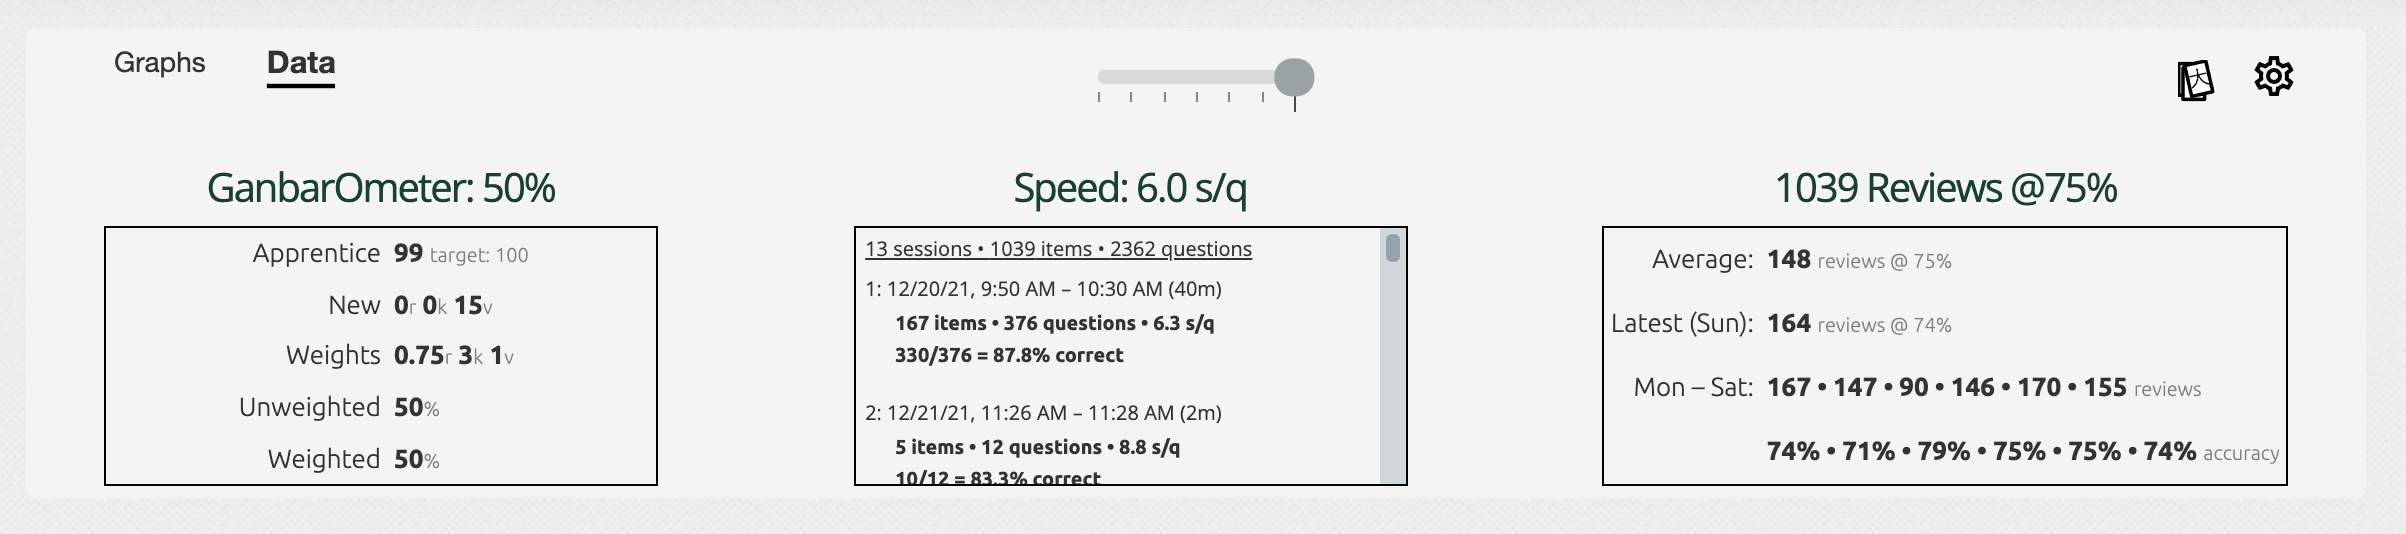
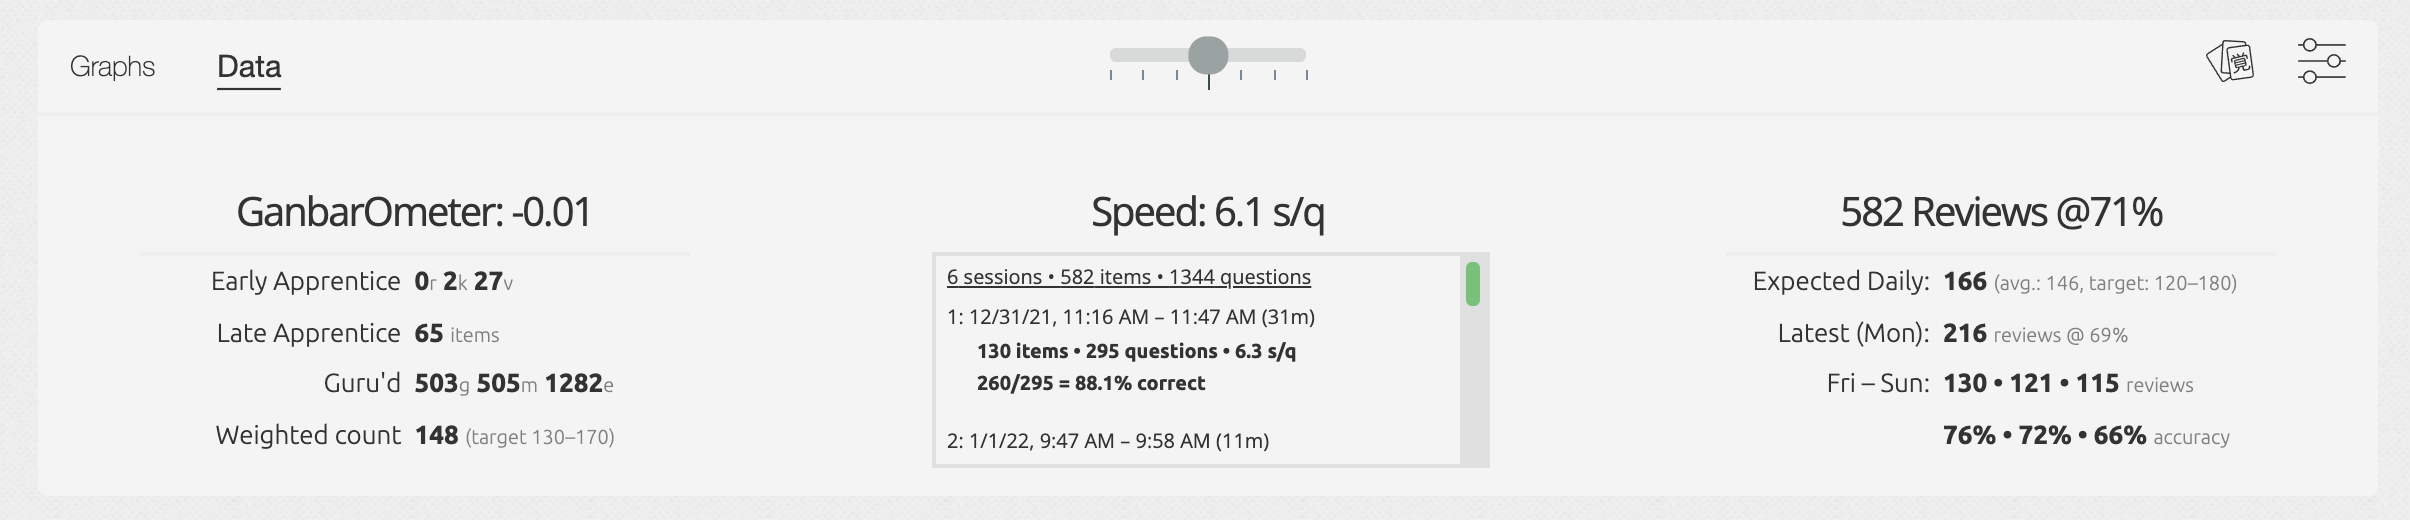
prepare for v4.0.0 release!

diff --git a/src/components/Gauge.svelte b/src/components/Gauge.svelte
@@ -84,7 +84,8 @@
 
   .needle {
     background-color: transparent;
-    border-top: 4px solid var(--fillColor);
+    border-top: 2px solid var(--fillColor);
+    z-index: 1;
   }
 
   .centerMark {

diff --git a/README.md b/README.md
@@ -1,20 +1,64 @@
-# The GanbarOmeter (svelte version)
+# The GanbarOmeter v4.0
+
+At long last, I'm happy to release this thing to the wild. It's ... grown. It
+dances, it sings, it names your offspring, it predicts the weather, it knows
+what you had for breakfast ...
+
+([I may have a
+problem](https://community.wanikani.com/t/script-abusers-anonymous/45681/82?u=rrwrex).
+Fear is the mind-killer ...)
+
+## What is it?
 
 This is a [tampermonkey](https://www.tampermonkey.net/) user script
-intended for people learning to read Japanese kanji characters with
-[Wanikani](https://www.wanikani.com/about).
+that (primarily) adds three graphical widgets to the
+[Wanikani](https://www.wanikani.com/about) dashboard. All three provide
+information to help manage your workload as you progress through the WaniKani
+levels.
 
-It adds three graphical widgets to the dashboard view (as well as a tabular view
-of the underlying values).)
+Quit reading this crazy diatribe and [go install it already](#installation).
 
-## User interface
+## User interface overview
 
 ![Graph view](./assets/graphs-view.png)
 
-This shows the three primary widgets, the navigation to display graphs or
-data-tables, a slider to change the number of days worth of reviews to retrieve,
-an icon to launch @rfindley's Self-Study quiz, and an icon to change the
-settings.
+There are three primary elements:
+
+- The [GanbarOmeter](#The-GanbarOmeter) itself. This gauge helps you decide whether to slow down or
+  speed up doing lessons. Basically, you want to keep the needle within the
+  light green region.
+
+- The Speed gauge. This gauge tells you how long you are taking on average to answer
+  reading and meaning questions. (Note that this depends on several heuristics
+  and statistical tricks. This information isn't measured, or at least not
+  presented by the [Wanikani API](https://docs.api.wanikani.com).)
+
+- The Reviews chart which displays a bar chart with how many reviews you
+  performed each day (and the percentage of those reviews you answered correctly
+  the first time).)
+
+If you click the "Data" navigation at the top, the graphs are replaced with a
+tabular view of the underlying data:
+
+![Data view](./assets/data-view.png)
+
+### Navigation
+
+The menu on top has several navigational elements:
+
+![Navigation elements](./assets/graphs-view-annotated.png)
+
+In addition to showing graphs or data, the nav bar includes:
+
+- A slider at the top to choose the number of days worth of reviews to retrieve.
+
+- An icon to pull up the preference setting dialog.
+
+- (Optional) A launcher for @rfindley's [Self-Study Quiz](https://community.wanikani.com/t/userscript-self-study-quiz/13191) with just the "new"
+  items in your assignment queue. "New" items are in stages 1 and 2 ("Apprentice
+  1" and "Apprentice 2'). This icon only appears if you have the Self-Study Quiz
+  installed. By default it will only quiz you on new Kanji, but you can choose
+  whether to include radicals or vocabulary in the settings.
 
 ### The GanbarOmeter
 
@@ -24,56 +68,47 @@ lessons depending on the counts, types, and SRS stages of upcoming assignments.
 
 The GanbarOmeter display a zero-center needle with three ranges. A numeric value
 is calculated based on upcoming assignments. That value is compared to lower and upper
-limits specified by the user. Values between the limits (in the gray range)
+limits specified by the user. Values between the limits (in the green range)
 display a “good” label. Below the lower limit (the yellowish range) displays a “more effort needed”
 label. Above the upper limit (the reddish range) displays a “take a break” label.
-
-Here are the settings for the GanbarOmeter (showing the default values):
-
-![GanbarOmeter Settings](./assets/ganbarometer-settings.png)
 
 ### The Speed Gauge
 
 The speed gauge show how long on average it takes you to answer an individual
-reading or meaning question. There is a setting for the target speed, a value at
-the target will display the green dial at the 50% location. Faster (lower
+reading or meaning question. There is a setting for the target speed, a computed
+value exactly equal to the target will display the green dial at the 50% location. Faster (lower
 seconds/question) will display in the lower part of the gauge, and slower in the
-higher range.
+higher range. Values above or below the limits specified in the target will
+change the label and display in a warning color.
 
 Note that this displays how much time is spent on each _question_ (reading or
-meaning, including repeat questions for prior incorrect answers).
+meaning, including repeat questions for prior incorrect answers). This is
+quite different than the delay between individual review records (which is what the
+API returns).
 
 ### The Reviews Chart
 
 Finally, the review chart shows a great deal of information:
 
 - The number of reviews performed each day.
-- The percentage of items answered correctly the first time (both meaning and
+- The percentage of _items_ answered correctly the first time (both meaning and
   reading).
 - The target range (the light green box in the background).
 - The expected daily number of reviews based on the makeup of the assignment
   queue (the horizontal dashed golden line).
 
-If you hover your mouse over an accuracy bar, it displays the number of review
+If you hover your mouse over an individual reviews bar, it displays the number of review
 items on that day as well as how many were answered correctly the first time
 (both reading and meaning).
 
-![Hovering over and accuracy bar](./assets/accuracy-hover.png)
-
-### The day range slider
-
-![Range slider](./assets/range-slider.png)
-
-You can retrieve between one and seven days of reviews.
+![Hovering over and accuracy bar](./assets/review-hover.png)
 
 ### Data view
-
-![Data view](./assets/data-view.png)
 
 The data view shows information in tabular form.
 
 Note that the speed gauge displays the number of _sessions_ (consecutive strings
-of reviews). It performs a statistical algorithm called the [median absolute
+of reviews). It uses a statistical algorithm called the [median absolute
 deviation](https://en.wikipedia.org/wiki/Median_absolute_deviation) on the
 intervals between review records to find sessions.
 
@@ -82,28 +117,187 @@ reading or writing questions answered correctly) while the review accuracy table
 displays _item_ accuracy (the percentage of review items where _both_ the
 reading and meaning were answered correctly the first time).
 
-## Beta version installation
+### The day range slider
 
-(The following presumes you already have Tampermonkey and the Wanikani Open
-Framework installed.)
+![Range slider](./assets/range-slider.png)
 
-1. Navigate to your Wanikani dashboard, click on the tampermonkey settings, and
-   disable the current ganbarometer script if you already have an older version
-   installed (there is no point in running both).
+You can retrieve between one and seven days of reviews.
 
-2. Open the tampermonkey dashboard, click the "Utilities" tab. At the very bottom you will see "Install from URL". Cut and paste this URL into the box, and click "Install": https://raw.githubusercontent.com/wrex/ganbarometer-svelte/main/published/beta0/bundle.js
+### Self-study
 
-3. Click "Install" on the next page. Then navigate back to your dashboard and
-   refresh the page. You should see the new version shown in the screenshots in
-   the previous post.
+If @rfindley's [Self-Study Quiz](https://community.wanikani.com/t/userscript-self-study-quiz/13191) is installed, a hand-drawn icon should be
+visible to launch it. (I tried to make it look like flash-cards). The idea is to
+let you do "out-of-band" reviews of newly introduced items as often as possible
+before doing your "proper" reviews within the SRS system.
 
-4. If you had a previous beta installed, you may need to refresh your stored
-   settings: Open the Settings dialog by clicking on the icon. Then click the
-   "defaults" button, followed by the "save" button. You must currently close
-   the dialog explicitly by clicking the red X in the upper right corner after
-   saving (this will be fixed in the production version).
+Items in the first two stages have **very** short review-cycles. It doesn't hurt
+to review the newest items more frequently. Once you answer them correctly
+enough times in the real Wanikani SRS system, they'll move out of the earliest
+stages.
 
-## Notes
+I feel strongly that these "extra" reviews of items in the first two stages
+isn't "cheating". The whole idea of an SRS is to repeat the stuff that needs it
+as often as possible, and items in the first two stages absolutely **should** be
+reviewed as much as possible.
+
+Once they've left the earliest stages, it's best to let the SRS system figure
+out when you should next review an item.
+
+### Settings
+
+Clicking the right-most icon will bring up the settings dialog:
+
+![Settings dialog](./assets/settings-ganbarometer.png)
+
+There are separate sections for each of the different widgets. There are also
+sections for "advanced" settings you shouldn't have to touch, as well as
+appearance settings (including where on the dashboard you want to see the Ganbarometer,
+and your prefered colors).
+
+## Installation
+
+1. Install a script manager of some sort. [Tampermonkey](https://chrome.google.com/webstore/detail/tampermonkey/dhdgffkkebhmkfjojejmpbldmpobfkfo?hl=en) or [Violentmonkey](https://github.com/violentmonkey/violentmonkey)
+   should both work (I use Tampermonkey myself).
+
+2. Install the [Wanikani Open Framework](https://community.wanikani.com/t/installing-wanikani-open-framework/28549).
+
+3. Navigate to your [Wanikani dashboard](https://www.wanikani.com/dashboard).
+
+4. Click on the tampermonkey settings (there should be an icon in your menu
+   bar). If you happen to already have an older version of this script
+   installed, please delete it. Open the tampermonkey dashboard and click the
+   "Utilities" tab.
+
+5. At the very bottom you will see "Install from URL". Cut and
+   paste this URL into the box, and click "Install":
+   `https://raw.githubusercontent.com/wrex/ganbarometer-svelte/main/published/v4/bundle.js`
+
+6. Click "Install" on the next page to actually add the script. Then navigate back to your dashboard and
+   refresh the page. You should now see the Ganbarometer!
+
+## Why this script exists
+
+Developing this has been a lot of fun. I've learned a ton (I didn't know
+Javascript and barely knew HTML/CSS when I started).
+
+More importantly, though, I've found this script incredibly **useful** as I
+progress through the levels. Not to put too fine a point on it, I wrote this for
+_myself_.
+
+The Wanikani designers have done a truly amazing job. The site teaches you to read
+kanji in the most efficient **AND ALMOST EFFORTLESS** way possible. It's like magic.
+
+The only requirements are that you:
+
+1. **DO ALL YOUR AVAILABLE REVIEWS EVERY SINGLE DAY**, and
+
+2. _Do a sufficient number of **lessons** to maintain a "comfortable" pace while
+   still meeting requirement 1._
+
+In other words, you really **must** try to get your review queue down to zero at
+least once every single day. (Life happens, and it's not the end of the world if you miss
+a day or two here and there, but you'll pay for it in the end if you don't keep
+up with your reviews.) Doing your reviews every day (or nearly) is non-negotiable.
+
+_Lessons_ though, **feed** the review queue. The more lessons you do, the more
+reviews you'll spend time on. _Lessons_ are the accelerator pedal, reviews are
+miles under the wheels, and **there is no brake pedal!** Once you've completed a
+lesson, you've launched that item into your review queue for the foreseeable
+future — there's no pulling it back. Lessons you do today will have an impact
+on your review workload _months_ in the future!
+
+You've no choice regarding reviews, you've got to do them all. But it's
+completely up to you to figure out how many lessons to do each day. Lessons are
+the **only** thing under your control!
+
+Very smart people who've gone before me have figured out various "algorithms" to
+help figure out when to speed up or slow down with lessons. One common one is to
+keep your "Apprentice Queue" at about 100 items.
+
+A more sophisticated algorithm is to keep "apprentice items" (stages 1-4) plus
+1/10th of "guru" items (stages 5 and 6) around 150 items.
+
+To me, though, newly introduced characters were hardest of all. Each level would
+start hard and become easier. In the first several days of a new level, all
+those new kanji really made my reviews difficult. Once I got toward the end of a
+level and started seeing more vocabulary using those characters in my reviews,
+it got easier.
+
+I started to slow down doing lessons immediately after leveling-up (when I
+started seeing more of that "evil pink") then speed up at the end of a level
+when new lessons were entirely vocabulary for the kanji I'd already learned.
+
+I wanted a dashboard display that mad this mental calculation visible. Just
+Tarzan-logic: "new kanji hard — slow down".
+
+Enter the GanbarOmeter.
+
+## How I use this
+
+I do my reviews daily (only very rarely more than once per day). This means that
+I "miss" the 4-hour and 8-hour review intervals for items in the first two
+stages. I simply don't review items in the first two stages often enough.
+
+So, every morning I pour a fresh cup of coffee and look at my dashboard. This
+only takes a second, just a simple glance.
+
+Unsurprisingly, the default settings for the script match my own
+preferences.
+
+I want the GanbarOmeter to calculate a weighted value somewhere
+between 130 and 170 (this is roughly my number of Apprentice items, but early
+kanji are weighted more heavily and I also count items in the guru stages to
+account for leeches). Rather than doing mental gymnastics with numbers, I just
+want to see the needle in the green zone, pointing almost vertical.
+
+The speed dial is mostly to ensure I maintain a consistent pace. I don't like to
+do more than 150 or so items in any individual session, and I don't want to take
+more than a half-hour to forty-five minutes to do my reviews. A pace of about
+6.5 seconds-per-question "feels" about right for me.
+
+The review graph shows me how much work I've don't for the past few
+days. If my expected number of daily reviews starts creeping up, I may decide to
+do fewer lessons no matter what my GanbarOmeter says.
+
+Next, I click on the self-study button to review kanji in the first two-stages
+"out-of-band" (I only review kanji this way, ignoring radicals and vocabulary,
+because I find them the most difficult). If I don't know an answer, I type "ke"
+to answer incorrectly, then hit F1 to reveal the correct answer before moving
+on.
+
+At the beginning of a level, I might have 10 or more new kanji in stages 1 and 2. At the end of a level I'll rarely have any.
+
+Regardless, I'll repeat the self-study quiz until I can answer all the items
+100% correctly. Then I'll hit the escape key three times in a row and start my
+"real" Wanikani review session.
+
+The Wanikani review session proceeds normally. I'm **NOT** a fan of re-ordering
+script or whatever. I've no qualms about displaying additional information, but
+I'm extremely suspicious of anything that actually changes how the Wanikani SRS
+system actually behaves.
+
+About the only thing I do differently than many during my reviews is to spend
+time on incorrect answers as I go, trying to figure out why I missed it. Many
+people wait until the end of their review sessions to figure out why they missed
+things. It's very much personal preference.
+
+Only after my review session do I decide whether or not to do any lessons. I
+navigate back to the dashboard to ensure I have the latest GanbarOmeter value
+displayed. If it's in the green (or on the left side) I'll do at least 5
+lessons, if not 10, 15 or even 20 lessons.
+
+In practice, I might think I want to do a large number of lessons because the
+GanbarOmeter displayed a highly left-of-center value, but after doing 5 lessons
+I might choose to bail if they seemed harder than usual.
+
+Toward the end of a level, though, the vocabulary lessons often seem easy, so I
+might choose to do **more** lessons than the GanbarOmeter might seem to
+indicate.
+
+In other words, the GanbarOmeter provides **input** to my decision making
+process. I don't just follow it's guidance automatically.
+
+## Development Notes
 
 I developed this using the [svelte](https://svelte.dev) compiler, using [typescript](https://typescriptlang.org) for
 compile-time type checking, [jest](https://jestjs.io) as a testing framework, and [Testing
@@ -152,8 +346,17 @@ This is still BETA code: I plan a fair bit of clean-up and refactoring. Please b
 
 ## TODO
 
-- disable the save button on validation errors, close modal on save
-- more tests
-- update readme (ready to publish)
-- "debounce" changes to retrieval days setting (?)
-- Write a [[new version of review-cache]]
+- I still need to write more unit tests
+
+- Doubtless, bugs still lurk. The best way to find them is to put this out
+  there, though. Please let me know if you discover any.
+
+- I'd like to disable the self-study quiz if there are no no items available.
+  The self-study quiz itself does the right thing if there aren't any available,
+  but it would be nice to save a click.
+
+- I'm currently caching the processed data for each widget, but each time the
+  dashboard gets refreshed I pull down 1 to 7 days worth of reviews (and all the
+  assignments) from the Wanikani API. I really want to start caching these raw
+  reviews as well, but I plan to release that as a separate project. I'll create
+  a new version of the Ganbarometer once that cache is complete.
